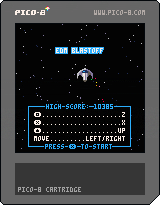
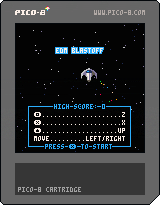
Fix cdata

Changed region(s): [[0.2812, 0.4976, 0.7188, 0.5561], [0.4688, 0.322, 0.625, 0.4098], [0.8125, 0.1756, 0.8438, 0.2049]]

diff --git a/main.js b/main.js
@@ -68,26 +68,26 @@ var _cartdat=[
 0,0,0,0,0,0,0,0,0,0,0,0,0,0,0,0,0,16,0,0,0,0,0,0,0,0,0,0,0,0,0,0,0,0,0,0,0,0,0,0,0,0,0,0,0,0,0,0,0,0,0,0,0,0,0,0,0,0,0,0,0,0,0,0,0,0,0,0,0,0,0,0,0,0,0,0,0,0,0,0,0,0,0,0,0,16,0,0,0,0,0,0,0,0,0,0,0,0,0,0,0,0,0,0,0,0,0,0,0,0,0,0,0,0,0,0,0,0,0,0,0,0,0,0,0,0,0,0,0,0,0,0,0,0,0,0,0,0,0,0,0,0,0,0,0,0,0,0,0,0,0,0,0,16,0,0,0,0,0,0,0,0,0,0,0,0,0,0,0,0,0,0,0,0,0,0,0,0,0,0,0,0,0,0,0,0,0,0,0,0,0,0,0,0,0,0,0,0,0,0,0,0,0,0,0,0,0,0,0,0,0,0,0,0,0,0,0,0,0,0,0,16,0,0,0,0,0,0,0,0,0,0,0,0,0,0,0,0,0,0,0,0,0,0,0,0,0,0,0,0,0,0,0,0,0,0,
 0,0,0,0,0,0,0,0,0,0,0,0,0,0,0,0,0,0,0,0,0,0,0,0,0,0,0,0,0,0,0,0,0,16,0,0,0,0,0,0,0,0,0,0,0,0,0,0,0,0,0,0,0,0,0,0,0,0,0,0,0,0,0,0,0,0,0,0,0,0,0,0,0,0,0,0,0,0,0,0,0,0,0,0,0,0,0,0,0,0,0,0,0,0,0,0,0,0,0,0,0,16,0,0,0,0,0,0,0,0,0,0,0,0,0,0,0,0,0,0,0,0,0,0,0,0,0,0,0,0,0,0,0,0,0,0,0,0,0,0,0,0,0,0,0,0,0,0,0,0,0,0,0,0,0,0,0,0,0,0,0,0,0,0,0,0,0,0,0,16,0,0,0,0,0,0,0,0,0,0,0,0,0,0,0,0,0,0,0,0,0,0,0,0,0,0,0,0,0,0,0,0,0,0,0,0,0,0,0,0,0,0,0,0,0,0,0,0,0,0,0,0,0,0,0,0,0,0,0,0,0,0,0,0,0,0,0,16,0,0,0,0,0,0,0,0,0,0,0,0,0,0,0,0,0,0,
 0,0,0,0,0,0,0,0,0,0,0,0,0,0,0,0,0,0,0,0,0,0,0,0,0,0,0,0,0,0,0,0,0,0,0,0,0,0,0,0,0,0,0,0,0,0,0,0,0,16,0,0,0,0,0,0,0,0,0,0,0,0,0,0,0,0,0,0,0,0,0,0,0,0,0,0,0,0,0,0,0,0,0,0,0,0,0,0,0,0,0,0,0,0,0,0,0,0,0,0,0,0,0,0,0,0,0,0,0,0,0,0,0,0,0,0,0,16,0,0,0,0,0,0,0,0,0,0,0,0,0,0,0,0,0,0,0,0,0,0,0,0,0,0,0,0,0,0,0,0,0,0,0,0,0,0,0,0,0,0,0,0,0,0,0,0,0,0,0,0,0,0,0,0,0,0,0,0,0,0,0,0,0,0,0,16,0,0,0,0,0,0,0,0,0,0,0,0,0,0,0,0,0,0,0,0,0,0,0,0,0,0,0,0,0,0,0,0,0,0,0,0,0,0,0,0,0,0,0,0,0,0,0,0,0,0,0,0,0,0,0,0,0,0,0,0,0,0,0,0,0,0,0,16,0,0,
-58,99,58,0,59,137,0,0,15,13,30,32,16,13,32,13,42,0,34,17,16,25,14,24,13,31,32,27,18,18,0,34,43,1,18,33,26,15,32,21,27,26,2,59,21,26,21,32,42,43,1,2,2,20,21,19,20,31,15,27,30,17,2,51,2,44,45,61,161,56,23,61,56,51,16,19,17,32,42,3,62,188,56,63,67,61,75,4,61,203,16,21,31,28,24,13,37,51,0,34,0,34,65,30,21,18,65,240,49,3,2,32,20,17,26,67,27,63,246,63,22,64,248,2,56,56,69,243,71,23,17,26,16,65,255,65,255,67,190,74,70,48,4,3,68,144,71,248,68,242,68,82,3,62,95,65,242,65,50,65,161,76,251,73,245,65,211,72,26,2,2,76,62,60,106,73,76,81,242,77,252,77,60,18,24,30,42,85,232,89,40,31,32,13,32,17,51,89,50,84,21,13,91,23,34,17,83,137,61,62,56,33,28,94,21,17,51,61,77,59,60,78,61,159,16,30,13,35,61,109,60,44,83,39,24,31,62,162,64,81,21,26,32,30,27,64,240,64,64,61,76,63,111,87,54,69,
-27,30,32,59,19,13,25,17,100,18,88,41,101,152,69,67,101,58,70,164,62,249,69,49,62,151,60,95,64,206,66,185,2,2,25,59,36,106,21,88,43,25,59,37,60,90,28,78,67,28,56,36,51,9,9,60,57,37,51,4,4,5,61,51,16,21,30,51,62,52,56,31,28,16,51,61,68,31,28,30,21,81,40,4,57,63,19,60,20,37,57,5,57,5,64,66,24,13,26,17,62,86,28,27,35,17,30,51,6,65,57,21,26,34,33,24,26,64,25,66,46,117,24,37,25,27,16,114,45,18,13,80,76,114,69,115,59,113,188,99,35,116,184,61,129,114,99,0,39,0,39,90,57,30,17,13,23,70,57,90,70,51,65,122,90,165,91,162,2,27,30,2,87,212,91,146,91,141,62,136,91,95,32,21,25,17,27,33,32,77,54,74,47,31,51,44,6,5,57,9,7,57,12,9,127,43,27,14,99,22,15,24,61,39,72,63,25,27,23,73,106,91,19,31,130,98,18,21,30,17,35,27,30,23,61,113,28,30,27,28,60,124,79,43,33,28,62,125,94,45,59,15,27,24,27,30,
-66,29,4,57,9,57,4,6,64,52,72,35,51,4,57,4,5,11,2,16,27,128,61,13,16,16,42,66,56,57,44,121,93,90,47,30,26,16,42,62,21,43,57,123,81,91,41,61,228,65,31,139,30,66,154,46,113,38,63,42,6,43,43,50,4,47,63,108,72,34,65,32,5,61,21,136,48,45,144,34,104,50,72,37,17,34,59,78,33,51,78,38,145,60,78,47,59,26,27,35,61,130,16,79,76,31,32,17,28,97,59,23,17,37,77,55,0,34,2,0,34,57,0,34,0,142,60,20,0,151,60,24,0,148,0,34,101,51,13,32,32,17,30,26,59,62,44,103,103,33,31,21,15,59,32,30,13,15,23,104,57,111,204,116,166,153,59,147,29,14,32,26,42,8,43,2,13,130,20,87,92,49,51,4,124,247,124,247,124,247,124,215,92,202,106,134,50,51,9,142,74,163,35,59,72,82,161,41,86,25,57,60,36,60,88,162,40,74,114,62,160,5,62,160,26,17,36,64,245,62,33,6,64,165,77,95,92,24,157,118,137,71,84,60,128,73,37,26,15,59,79,60,85,118,104,21,
-50,51,4,52,6,153,40,62,95,102,51,168,77,31,28,13,35,26,59,101,38,174,51,65,80,61,112,138,175,59,31,20,21,62,70,125,108,46,6,47,51,12,85,252,140,118,179,53,15,24,31,92,79,146,18,67,89,60,127,67,119,61,61,21,26,122,16,33,183,53,63,67,132,16,26,32,59,116,21,24,21,26,17,42,0,34,183,47,128,67,54,2,0,34,56,56,180,247,57,26,21,24,57,11,3,57,3,110,26,63,255,189,63,2,190,112,62,60,5,7,113,20,57,10,66,251,42,0,34,106,17,31,31,2,0,151,2,32,27,152,66,63,64,4,5,65,77,57,6,73,129,77,67,153,202,162,181,79,81,142,55,195,24,25,21,26,42,143,85,64,71,191,23,61,110,48,151,18,191,129,159,37,27,34,17,30,199,59,188,68,145,52,59,145,37,86,189,128,87,92,241,89,144,114,65,90,163,119,186,16,59,92,56,86,74,97,84,138,114,93,169,138,56,167,67,95,57,61,128,95,106,205,16,71,84,97,251,97,203,15,20,17,15,23,138,47,24,21,31,91,131,124,90,21,26,28,
-33,215,69,62,71,25,21,31,31,70,22,14,17,13,216,75,107,88,145,127,70,180,105,62,165,90,52,92,59,107,104,219,45,180,249,81,214,131,234,168,251,189,55,218,30,164,78,2,49,2,4,9,218,135,171,167,104,30,194,68,136,205,145,64,64,49,138,31,41,2,6,5,2,51,51,2,11,163,19,214,140,117,71,73,143,153,75,3,43,2,50,2,7,57,154,57,6,5,43,233,36,221,111,65,161,158,41,65,18,139,157,122,120,163,66,236,62,225,105,225,47,197,202,117,76,98,204,24,27,15,13,24,180,33,152,51,28,152,19,13,0,34,57,0,39,30,0,39,57,0,34,109,29,0,34,37,153,19,25,153,23,27,153,27,16,153,31,17,154,19,39,60,36,60,56,242,43,64,64,21,75,95,169,19,17,13,15,20,168,20,30,57,2,246,106,42,15,73,65,123,199,15,57,6,4,50,42,21,53,8,43,57,5,3,50,165,67,57,10,57,167,102,11,43,77,36,11,76,75,21,2,50,81,79,239,19,117,245,217,141,133,184,31,15,30,17,17,26,31,20,13,105,88,134,248,135,
-23,98,199,135,75,115,165,137,60,111,192,138,79,110,126,138,255,127,123,141,106,101,91,141,106,119,145,126,34,208,125,251,113,86,245,254,122,70,128,25,17,177,23,227,249,129,105,228,161,157,185,56,111,164,114,243,163,176,254,21,42,179,249,32,49,4,43,2,152,31,21,120,66,164,117,16,32,222,150,176,48,69,249,69,73,159,253,159,221,157,217,241,47,2,142,43,153,71,8,9,94,16,3,189,86,26,17,35,59,158,122,253,133,115,254,115,253,115,253,115,253,115,173,166,219,67,22,2,166,143,39,39,108,28,165,45,9,11,57,183,30,57,2,69,61,170,240,169,139,169,247,169,39,63,121,17,240,77,174,80,63,248,172,127,15,17,26,209,22,59,32,193,27,65,141,2,56,56,241,202,43,69,38,172,52,65,113,178,249,178,233,65,186,181,183,65,47,181,249,43,181,38,178,55,199,69,214,29,94,121,143,154,180,243,180,99,180,29,180,133,12,183,18,186,19,180,51,190,243,63,245,63,245,110,181,159,175,110,244,179,141,31,18,36,146,47,253,21,96,206,156,190,196,143,23,98,
-76,48,82,88,60,95,248,21,42,62,228,51,51,63,178,231,43,201,134,201,77,48,60,173,43,232,143,64,251,67,172,62,210,206,71,51,250,41,64,190,227,90,73,195,167,117,16,31,17,32,42,3,57,73,164,163,65,61,57,4,148,50,69,189,198,136,244,80,248,91,242,77,51,172,94,244,184,132,219,61,127,244,56,124,191,252,65,150,55,249,46,208,43,3,253,128,152,197,0,9,62,151,0,45,179,32,0,9,182,46,63,139,49,210,103,0,9,0,9,25,59,36,247,20,177,63,65,156,50,2,136,17,0,45,63,147,43,52,5,62,61,37,62,253,62,253,62,93,177,246,246,251,226,20,34,247,57,51,247,46,59,26,27,35,247,81,60,43,61,52,239,72,32,62,112,0,45,63,115,80,56,17,28,249,24,148,84,253,43,49,253,25,43,254,53,61,119,146,109,49,191,26,147,105,0,45,63,21,187,240,243,254,2,115,22,15,32,18,21,24,24,195,24,57,11,5,57,4,4,238,46,241,30,61,108,61,184,62,16,243,132,42,0,34,0,142,56,56,56,60,19,60,70,60,108,38,
-0,34,139,30,11,57,11,140,21,243,132,42,0,34,0,151,62,252,63,29,36,62,76,12,9,62,204,0,148,65,248,56,96,27,65,72,4,3,205,26,65,169,25,239,30,68,120,24,17,18,32,52,30,156,25,248,28,62,62,148,40,251,27,203,251,181,170,203,85,189,44,220,91,246,174,2,5,56,210,147,62,102,198,66,0,45,196,86,251,60,31,201,18,32,17,46,5,47,252,16,28,56,36,216,20,99,39,50,65,89,0,45,2,11,62,166,6,62,70,37,62,54,60,38,42,6,2,53,60,37,0,45,254,104,219,56,68,57,89,109,179,60,177,105,41,5,51,51,106,80,229,33,30,17,32,33,30,229,44,159,119,68,31,42,33,26,28,234,16,238,21,69,76,119,124,237,202,248,210,13,16,16,42,248,47,57,2,44,234,60,111,43,73,64,212,74,111,19,7,57,236,54,110,40,72,68,71,254,43,43,62,67,31,78,92,6,233,36,5,63,71,15,242,33,217,201,65,64,24,81,89,9,236,33,4,245,36,45,248,230,253,82,210,116,226,99,71,65,226,116,28,226,84,82,33,84,
-46,31,60,95,24,126,74,245,90,61,32,48,126,102,245,66,16,17,24,75,93,64,83,239,126,226,234,218,204,68,248,68,200,146,37,93,20,65,22,56,37,60,37,236,52,231,255,73,143,189,17,165,86,251,16,211,26,28,42,253,21,201,167,123,20,24,13,26,161,27,212,20,91,124,211,39,16,21,30,51,101,55,74,63,62,19,124,41,181,147,64,61,215,25,64,253,64,45,86,22,64,253,64,172,132,74,185,127,13,14,31,42,68,38,31,46,68,78,47,103,62,36,43,111,37,187,146,108,28,51,2,62,184,201,191,110,43,149,29,64,249,64,41,53,2,3,56,6,235,115,118,73,91,19,35,13,30,16,59,24,17,34,17,24,51,215,18,0,45,118,92,53,7,141,112,37,49,62,182,141,39,37,0,45,51,3,56,8,62,130,48,62,242,37,50,51,5,62,18,240,199,228,19,30,27,240,84,248,141,122,16,50,51,15,27,31,149,50,52,149,34,53,5,235,54,37,51,7,7,113,255,113,63,246,42,33,114,146,61,64,31,57,114,133,80,75,109,106,6,43,43,50,4,47,114,137,
-0,45,9,115,86,31,28,16,197,20,4,112,140,226,28,110,251,110,155,66,89,110,207,67,110,111,242,111,114,28,235,67,240,131,4,9,240,35,216,155,250,38,120,252,138,55,239,130,244,242,244,242,244,146,110,34,110,33,4,8,115,252,168,251,115,28,73,249,73,249,124,155,15,21,30,15,66,113,6,57,66,82,61,38,171,62,67,107,5,68,17,117,253,142,184,27,14,230,23,15,24,185,78,159,75,61,99,51,44,45,254,31,62,97,56,36,51,89,242,89,18,62,162,37,51,89,22,63,163,89,28,51,42,92,162,5,43,53,6,165,82,199,46,4,3,43,49,80,147,66,123,15,27,24,51,6,100,34,155,127,61,187,66,53,245,70,153,46,72,99,31,57,72,109,237,233,247,41,16,59,157,57,190,71,195,110,41,9,7,163,24,196,16,76,236,204,246,204,38,66,121,150,108,78,123,113,24,2,13,195,22,68,123,43,2,16,27,73,196,116,31,77,168,53,16,32,249,119,64,42,21,51,40,72,136,4,57,0,45,4,64,97,85,212,74,125,46,21,131,40,248,54,84,129,208,46,
-156,224,77,255,240,84,156,123,209,249,209,25,74,251,74,251,74,251,2,31,182,36,88,164,57,3,57,6,5,60,19,85,120,56,36,0,45,4,9,50,231,31,61,130,37,60,31,37,184,249,227,172,243,28,30,31,42,36,192,80,26,27,32,184,19,236,41,184,58,4,80,131,175,57,62,61,124,135,31,254,79,31,175,73,31,56,31,197,22,36,61,115,61,34,37,41,228,17,173,243,209,151,67,62,181,172,66,243,173,132,31,206,120,57,67,51,204,61,57,67,31,105,17,174,243,198,174,31,25,27,252,53,97,246,97,246,97,70,91,165,144,33,48,143,22,253,79,207,91,135,114,220,78,28,13,30,32,21,121,115,222,100,114,23,27,30,31,51,44,5,57,7,57,12,61,73,62,105,122,30,123,137,50,118,60,9,43,53,31,19,26,120,127,5,43,43,53,0,45,4,197,89,63,102,37,51,92,129,37,63,119,62,23,204,34,9,66,194,122,37,68,66,158,117,40,69,66,129,105,68,159,31,21,38,17,51,210,102,9,160,44,70,207,13,19,17,51,234,43,72,146,25,13,36,59,61,
-39,6,3,72,64,252,52,74,146,16,36,51,215,52,176,23,229,61,222,75,84,58,57,79,96,226,242,101,185,87,181,120,17,63,76,119,253,83,142,90,55,119,153,71,175,49,71,233,216,232,69,250,165,200,76,171,48,64,252,170,166,81,164,192,102,82,253,51,79,31,42,83,191,57,80,81,172,108,94,139,50,51,93,41,95,139,93,25,82,150,86,249,211,135,228,243,115,16,108,186,103,104,146,96,110,56,145,124,170,143,103,118,87,122,229,25,71,206,99,168,131,240,201,154,184,128,36,57,37,57,99,40,131,154,100,39,131,77,60,58,51,2,6,8,152,180,78,56,151,174,205,44,189,114,205,93,205,79,36,254,69,204,78,37,60,109,16,225,45,207,64,227,30,4,56,8,61,121,207,37,61,249,207,83,199,211,65,106,24,64,92,4,3,107,92,209,21,155,242,251,108,199,136,252,161,71,140,252,117,18,252,149,18,252,21,18,252,20,18,252,243,252,211,65,254,65,254,65,206,65,25,240,39,18,96,96,66,21,61,80,37,62,80,77,17,242,24,56,3,103,78,18,56,24,2,0,
-45,224,23,252,100,61,32,48,2,141,67,172,156,72,159,213,244,238,201,15,20,17,15,23,59,196,25,24,21,31,239,25,191,135,182,135,191,26,2,13,26,16,2,40,235,109,192,59,148,64,229,253,229,189,33,229,95,249,30,16,21,212,16,26,15,17,59,14,17,32,35,17,17,61,61,223,40,60,22,104,18,245,24,7,224,36,50,147,30,154,37,9,67,49,61,61,2,49,2,3,227,173,15,236,28,56,23,60,55,235,35,142,64,241,31,18,36,42,6,6,236,78,230,243,66,189,94,118,191,71,249,114,70,126,232,144,203,254,203,254,166,120,74,241,225,129,188,166,4,9,74,158,7,43,48,74,91,201,155,88,189,207,243,207,163,203,250,221,121,207,38,76,108,249,100,2,2,19,13,25,17,27,34,17,30,243,59,205,249,246,135,86,235,36,4,57,37,4,57,36,5,57,37,5,250,34,179,90,31,29,30,32,42,42,37,5,0,45,37,4,43,0,94,5,50,42,36,5,0,45,36,60,42,251,70,24,13,31,32,59,21,26,28,33,32,167,16,252,114,28,13,32,32,17,30,26,
-61,73,252,50,15,33,30,30,17,26,32,203,30,17,28,202,24,62,81,46,62,105,61,55,177,20,244,32,240,29,14,32,26,28,42,7,43,100,63,66,130,58,51,62,191,242,120,243,30,65,207,51,2,5,223,166,252,71,31,27,33,26,16,31,210,20,44,4,3,57,2,4,7,60,20,8,191,78,248,48,25,33,31,21,15,59,32,30,13,15,23,64,33,4,213,68,84,112,63,158,10,57,4,11,63,105,83,133,31,32,215,18,23,102,235,67,69,189,129,68,69,189,16,43,87,120,28,56,115,48,123,45,254,35,254,149,199,47,80,72,25,113,38,209,82,174,134,14,33,32,32,27,26,59,28,30,17,31,31,17,16,223,30,32,30,33,63,74,80,16,59,254,37,30,61,37,254,29,59,26,27,35,2,216,27,173,92,87,149,84,161,248,113,84,98,8,84,242,84,242,84,242,84,98,6,84,242,84,162,4,84,18,6,83,254,83,254,83,254,44,4,12,57,5,3,83,254,83,254,83,254,83,254,83,206,147,60,83,255,83,255,83,255,83,255,83,255,83,127,83,254,83,254,83,222,5,
-108,240,108,240,108,240,108,96,7,108,240,108,160,9,107,248,107,248,107,248,44,5,4,107,245,107,245,107,245,107,245,83,247,107,246,107,246,107,246,107,246,107,246,107,246,107,246,107,246,92,139,51,2,25,21,219,31,117,71,57,162,28,238,206,117,244,176,89,28,56,21,26,34,33,24,26,49,175,165,176,107,131,39,130,45,126,86,51,2,249,45,31,20,121,20,118,103,4,61,50,169,30,4,147,61,125,86,188,84,66,160,181,54,66,109,50,252,31,248,78,0,45,0,45,242,33,31,17,2,19,24,27,14,246,21,34,13,30,31,2,15,13,26,2,25,156,27,129,52,35,20,17,176,28,13,219,22,27,25,17,69,26,21,26,32,57,128,36,245,25,27,33,19,20,32,2,21,32,2,35,27,33,24,16,2,14,17,2,65,32,250,19,13,30,128,20,249,26,247,28,37,2,189,22,17,2,64,53,254,33,129,19,56,155,79,153,84,4,1,154,213,4,1,134,242,18,13,137,45,133,175,159,150,198,68,138,28,136,30,192,16,13,159,74,73,25,81,255,197,100,67,175,248,85,161,72,
-42,250,28,161,154,227,27,224,59,4,47,2,244,22,140,132,62,255,62,143,2,41,2,11,2,63,68,239,64,167,58,41,199,36,157,127,213,110,42,76,151,163,44,250,26,61,178,6,61,242,169,92,244,36,152,214,218,130,155,253,184,222,174,106,154,90,48,154,138,222,118,158,242,84,64,254,158,31,35,21,32,221,28,16,76,107,174,33,160,55,235,226,185,83,240,62,183,182,246,79,185,40,52,217,22,225,70,62,193,106,30,2,74,127,67,241,233,132,68,252,169,163,87,160,192,129,91,165,253,30,26,17,36,89,117,254,50,61,161,195,23,19,17,26,17,30,72,238,239,68,98,39,238,22,13,26,19,84,53,21,31,2,18,30,27,25,188,91,27,229,46,62,101,61,29,26,23,244,26,112,26,18,21,36,87,67,63,74,21,26,19,68,125,14,33,19,125,105,202,164,234,22,43,76,244,197,38,109,74,247,197,70,255,247,85,237,77,20,237,77,48,2,7,3,247,73,239,180,241,30,254,142,216,91,44,4,225,24,5,225,28,197,96,7,196,42,61,68,204,43,237,66,62,141,62,251,
-63,155,6,63,59,5,57,184,22,132,96,21,2,23,194,40,21,32,0,39,31,2,33,19,24,37,129,78,131,17,80,63,131,49,82,20,16,27,26,0,39,32,133,26,249,24,25,33,15,20,213,30,24,56,56,131,48,132,16,241,30,28,24,13,37,135,26,27,223,16,15,32,24,37,56,231,145,30,13,35,100,184,217,73,36,27,18,18,31,17,32,225,22,6,10,224,20,25,59,36,61,123,37,61,139,5,61,59,37,233,56,15,32,18,21,250,16,63,89,0,45,220,27,62,89,0,45,5,57,64,127,50,2,8,11,61,121,50,4,61,26,3,237,70,15,32,63,250,63,250,63,218,4,63,122,5,7,50,71,80,57,3,50,69,95,57,6,61,133,11,61,117,112,60,28,30,150,22,42,23,17,37,31,46,138,192,137,223,6,137,254,137,254,62,206,137,142,47,57,254,54,3,243,31,69,106,191,31,50,79,108,71,93,68,249,146,249,146,89,5,146,249,146,249,62,207,68,251,147,24,68,155,6,68,171,8,77,244,155,244,155,244,155,244,158,243,155,244,77,134,154,30,68,252,68,252,
-86,64,85,251,159,81,11,82,103,2,5,64,189,101,33,82,116,10,90,253,168,253,243,118,168,23,168,141,138,246,62,254,73,248,254,33,6,73,248,82,244,99,248,177,248,68,43,90,159,147,241,71,249,90,254,253,46,7,98,45,90,255,90,255,108,243,77,246,6,77,246,77,246,62,190,108,244,2,8,126,37,108,245,108,101,220,199,132,77,232,37,25,17,254,21,220,103,233,89,48,51,4,56,8,148,160,131,83,6,6,57,7,9,57,6,10,50,226,96,53,8,11,52,6,43,57,7,10,57,219,55,236,118,63,242,63,242,10,57,222,74,184,123,24,27,27,226,57,3,1,244,21,254,19,13,30,32,211,148,232,112,31,37,26,15,59,251,54,160,127,199,89,251,172,62,65,253,157,247,74,66,68,251,80,175,137,18,61,89,49,2,4,6,205,106,229,17,64,87,64,65,222,50,216,63,199,125,71,66,210,41,206,53,190,132,72,144,189,142,73,181,251,117,239,35,7,184,135,65,230,7,64,241,77,182,204,154,203,225,178,53,249,62,178,79,165,91,51,0,39,0,39,61,115,180,66,
-50,51,4,3,53,25,13,36,89,99,0,45,4,57,3,43,53,16,32,182,252,17,49,4,3,182,27,203,128,183,144,50,51,208,54,185,153,52,62,45,219,68,187,160,0,45,62,57,62,250,67,18,63,96,221,124,189,160,49,67,248,73,128,2,180,16,191,188,240,26,233,107,194,219,72,17,230,146,77,218,78,184,56,56,0,39,3,78,42,231,98,199,249,48,4,64,251,64,251,64,251,235,157,67,252,67,172,80,237,119,254,192,43,90,130,178,71,0,34,209,56,54,2,0,34,77,129,197,80,57,3,57,3,57,150,52,252,57,30,17,13,23,106,44,88,156,64,98,61,60,64,99,62,57,63,28,11,118,235,241,125,186,48,59,27,33,32,24,21,26,17,240,21,186,31,19,196,19,197,17,57,204,19,24,27,30,4,60,88,5,57,209,17,28,20,252,36,36,51,36,186,40,15,17,26,253,31,59,32,235,19,63,105,62,115,191,71,64,127,101,18,2,37,50,64,107,185,144,62,194,62,240,64,210,64,39,64,242,71,147,62,240,62,208,68,242,70,164,69,47,70,244,62,242,68,244,
-64,244,72,246,70,196,80,111,152,239,80,222,82,142,239,91,9,7,0,45,239,37,40,91,29,53,7,43,52,5,0,45,42,85,48,211,33,221,23,128,209,26,28,143,17,42,32,57,18,30,27,25,57,32,27,230,139,61,33,51,61,38,214,41,144,35,232,66,32,27,51,32,27,215,44,40,127,85,42,63,42,49,63,26,247,90,245,134,32,46,65,37,47,57,66,180,89,27,66,38,247,31,0,0,0,0,0,0,0,0,0,0,0,0,0,0,0,0,0,0,0,0,0,0,0,0,0,0,0,0,0,0,0,0,0,0,0,0,0,0,0,0,0,0,0,0,0,0,0,0,0,0,0,0,0,0,0,0,0,0,0,0,0,0,0,0,0,0,0,0,0,0,0,0,0,0,0,0,0,0,0,0,0,0,0,0,0,0,0,0,0,0,0,0,0,0,0,0,0,0,0,0,0,0,0,0,0,0,0,0,0,0,0,0,0,0,0,0,0,0,0,0,0,0,0,0,0,0,0,0,0,0,0,0,0,0,0,0,0,0,0,0,0,0,0,0,0,0,0,0,0,0,0,0,0,0,
+58,99,58,0,59,138,0,0,15,13,30,32,16,13,32,13,42,0,34,17,16,25,59,14,24,13,31,32,27,18,18,0,34,43,1,18,33,26,15,32,21,27,26,2,59,21,26,21,32,42,43,1,2,2,20,21,19,20,31,15,27,30,17,2,51,2,44,45,61,161,56,23,61,56,51,16,19,17,32,42,3,62,188,56,63,67,61,75,4,61,203,16,21,31,28,24,13,37,51,0,34,0,34,65,30,21,18,65,240,49,3,2,32,20,17,26,67,27,63,246,63,22,64,248,2,56,56,69,243,71,23,17,26,16,65,255,65,255,67,190,74,70,48,4,3,68,144,71,248,68,242,68,82,3,62,95,65,242,65,50,65,161,76,251,73,245,65,211,72,26,2,2,76,62,60,106,73,76,81,242,77,252,77,60,18,24,30,42,85,232,89,40,31,32,13,32,17,51,89,50,84,21,13,91,23,34,17,83,137,61,62,56,33,28,94,22,17,51,61,77,59,60,78,61,159,16,30,13,35,61,109,60,44,83,39,24,31,62,162,64,81,21,26,32,30,27,64,240,64,64,61,76,63,111,87,54,
+69,27,30,32,59,19,13,25,17,100,18,88,41,101,152,69,67,101,58,70,164,62,249,69,49,62,151,60,95,64,206,66,185,2,2,25,59,36,106,21,88,43,25,59,37,60,90,28,78,67,28,56,36,51,9,9,60,57,37,51,4,4,5,61,51,16,21,30,51,62,52,56,31,28,16,51,61,68,31,28,30,21,81,40,4,57,63,19,60,20,37,57,5,57,5,64,66,24,13,26,17,62,86,28,27,35,17,30,51,6,65,57,21,26,34,33,24,26,64,25,66,46,117,25,37,25,27,16,114,45,18,13,80,76,114,69,115,59,113,188,99,35,116,184,61,129,114,99,0,39,0,39,90,57,30,17,13,23,70,57,90,70,51,65,122,90,165,91,162,2,27,30,2,87,212,91,146,91,141,62,136,91,95,32,21,25,17,27,33,32,77,54,74,47,31,51,44,6,5,57,9,7,57,12,9,127,43,27,14,99,22,15,24,61,39,72,63,25,27,23,73,106,91,19,31,130,98,18,21,30,17,35,27,30,23,61,113,28,30,27,28,60,124,79,43,33,28,62,125,94,45,59,15,27,24,27,
+30,66,29,4,57,9,57,4,6,64,52,72,35,51,4,57,4,5,11,2,16,27,128,61,13,16,16,42,66,56,57,44,121,93,90,47,30,26,16,42,62,21,43,57,123,81,91,41,61,228,65,31,139,30,66,154,46,113,38,63,42,6,43,43,50,4,47,63,108,72,34,65,32,5,61,21,136,48,45,144,34,104,50,72,37,17,34,59,78,33,51,78,38,145,60,78,47,59,26,27,35,61,130,16,79,76,31,32,17,28,97,59,23,17,37,77,55,0,34,2,0,34,57,0,34,0,142,60,20,0,151,60,24,0,148,0,34,101,51,13,32,32,17,30,26,59,62,44,103,103,33,31,21,15,59,32,30,13,15,23,104,57,111,204,116,166,153,59,147,29,14,32,26,42,8,43,2,13,130,20,87,92,49,51,4,124,247,124,247,124,247,124,215,92,202,106,134,50,51,9,142,74,163,35,59,72,82,161,41,86,25,57,60,36,60,88,162,40,74,114,62,160,5,62,160,26,17,36,64,245,62,33,6,64,165,77,95,92,24,157,118,137,71,84,60,128,73,37,26,15,59,79,60,85,118,104,
+21,50,51,4,52,6,153,40,62,95,102,51,168,77,31,28,13,35,26,59,101,38,174,51,65,80,61,112,138,175,59,31,20,21,62,70,125,108,46,6,47,51,12,85,252,140,118,179,53,15,24,31,92,79,146,18,67,89,60,127,67,119,61,61,21,26,122,16,33,183,53,63,67,132,16,26,32,59,116,21,24,21,26,17,42,0,34,183,47,128,67,54,2,0,34,56,56,180,247,57,26,21,24,57,11,3,57,3,110,26,63,255,190,48,2,190,112,62,60,5,7,113,20,57,10,66,251,42,0,34,106,17,31,31,2,0,151,2,32,27,152,66,63,64,4,5,65,77,57,6,73,129,77,67,153,202,162,181,79,81,142,55,195,24,25,21,26,42,143,85,64,71,191,23,61,110,48,151,18,191,129,159,37,27,34,17,30,199,59,188,68,145,52,59,145,37,86,189,128,87,92,241,89,144,114,65,90,163,119,186,16,59,92,56,86,74,97,84,138,114,93,169,138,56,167,67,95,57,61,128,95,106,205,16,71,84,97,251,97,203,15,20,17,15,23,138,47,24,21,31,91,131,124,90,21,26,
+28,33,215,69,62,71,25,21,31,31,70,22,14,17,13,216,75,107,88,145,127,70,180,105,62,165,90,52,92,59,107,104,219,45,180,249,81,214,131,234,168,251,189,55,218,30,164,78,2,49,2,4,9,218,135,171,167,104,30,194,68,136,205,145,64,64,49,138,31,41,2,6,5,2,51,51,2,11,163,19,214,140,117,71,73,143,153,75,3,43,2,50,2,7,57,154,57,6,5,43,233,36,221,111,65,161,158,41,65,18,139,157,122,120,163,66,236,62,225,105,225,47,197,202,117,76,98,204,24,27,15,13,24,180,33,152,51,28,152,19,13,0,34,57,0,39,30,0,39,57,0,34,109,29,0,34,37,153,19,25,153,23,27,153,27,16,153,31,17,154,19,39,60,36,60,56,242,43,64,64,21,75,95,169,19,17,13,15,20,168,20,30,57,2,246,106,42,15,73,65,123,199,15,57,6,4,50,42,21,53,8,43,57,5,3,50,165,67,57,10,57,167,102,11,43,77,36,11,76,75,21,2,50,81,79,239,19,117,245,217,141,133,184,31,15,30,17,17,26,31,20,13,105,88,134,248,
+135,23,98,199,135,75,115,165,137,60,111,192,138,79,110,126,138,255,127,123,141,106,101,91,141,106,119,145,126,34,208,125,251,113,86,245,254,122,70,128,25,17,177,23,227,249,129,105,228,161,157,185,56,111,164,114,243,163,176,254,21,42,179,249,32,49,4,43,2,152,31,21,120,66,164,117,16,32,222,150,176,48,69,249,69,73,159,253,159,221,157,217,241,47,2,142,43,153,71,8,9,94,16,3,189,86,26,17,35,59,158,122,253,133,115,254,115,253,115,253,115,253,115,173,166,219,67,22,2,166,143,39,39,108,28,165,45,9,11,57,183,30,57,2,69,61,170,240,169,139,169,247,169,39,63,121,17,240,77,174,80,63,248,172,127,15,17,26,209,22,59,32,193,27,65,141,2,56,56,241,202,43,69,38,172,52,65,113,178,249,178,233,65,186,181,183,65,47,181,249,43,181,38,178,55,199,69,214,29,94,121,143,154,180,243,180,99,180,29,180,133,12,183,18,186,19,180,51,190,243,63,245,63,245,110,181,159,175,110,244,179,141,31,18,36,146,47,253,21,96,206,156,190,196,143,23,
+98,76,48,82,88,60,95,248,21,42,62,228,51,51,63,178,231,43,201,134,201,77,48,60,173,43,232,143,64,251,67,172,62,210,206,71,51,250,41,64,190,227,90,73,195,167,117,16,31,17,32,42,3,57,73,164,163,65,61,57,4,148,50,69,189,198,136,244,80,248,91,242,77,51,172,94,244,184,132,219,61,127,244,56,124,191,252,65,150,55,249,46,208,43,3,253,128,152,197,0,9,62,151,0,45,179,32,0,9,182,46,63,139,49,210,103,0,9,0,9,25,59,36,247,20,177,63,65,156,50,2,136,17,0,45,63,147,43,52,5,62,61,37,62,253,62,253,62,93,177,246,246,251,226,20,34,247,57,51,247,46,59,26,27,35,247,81,60,43,61,52,239,72,32,62,112,0,45,63,115,80,56,17,28,249,24,148,84,253,43,49,253,25,43,254,53,61,119,146,109,49,191,26,147,105,0,45,63,21,187,240,243,254,2,115,22,15,32,18,21,24,24,195,24,57,11,5,57,4,4,238,46,241,30,61,108,61,184,62,16,243,132,42,0,34,0,142,56,56,56,60,19,60,70,60,108,
+38,0,34,139,30,11,57,11,140,21,243,132,42,0,34,0,151,62,252,63,29,36,62,76,12,9,62,204,0,148,65,248,56,96,27,65,72,4,3,205,26,65,169,25,239,30,68,120,24,17,18,32,52,30,156,25,248,28,62,62,148,40,251,27,203,251,181,170,203,85,189,44,220,91,246,174,2,5,56,210,147,62,102,198,66,0,45,196,86,251,60,31,201,18,32,17,46,5,47,252,16,28,56,36,216,20,99,39,50,65,89,0,45,2,11,62,166,6,62,70,37,62,54,60,38,42,6,2,53,60,37,0,45,254,104,219,56,68,57,89,109,179,60,177,105,41,5,51,51,106,80,229,33,30,17,32,33,30,229,44,159,119,68,31,42,33,26,28,234,16,238,21,69,76,119,124,237,202,248,210,13,16,16,42,248,47,57,2,44,234,60,111,43,73,64,212,74,111,19,7,57,236,54,110,40,72,68,71,254,43,43,62,67,31,78,92,6,233,36,5,63,71,15,242,33,217,201,65,64,24,81,89,9,236,33,4,245,36,45,248,230,253,82,210,116,226,99,71,65,226,116,28,226,84,82,33,
+84,46,31,60,95,24,126,74,245,90,61,32,48,126,102,245,66,16,17,24,75,93,64,83,239,126,226,234,218,204,68,248,68,200,146,37,93,20,65,22,56,37,60,37,236,52,231,255,73,143,189,17,165,86,251,16,211,26,28,42,253,21,201,167,123,20,24,13,26,161,27,212,20,91,124,211,39,16,21,30,51,101,55,74,63,62,19,124,41,181,147,64,61,215,25,64,253,64,45,86,22,64,253,64,172,132,74,185,127,13,14,31,42,68,38,31,46,68,78,47,103,62,36,43,111,37,187,146,108,28,51,2,62,184,201,191,110,43,149,29,64,249,64,41,53,2,3,56,6,235,115,118,73,91,19,35,13,30,16,59,24,17,34,17,24,51,215,18,0,45,118,92,53,7,141,112,37,49,62,182,141,39,37,0,45,51,3,56,8,62,130,48,62,242,37,50,51,5,62,18,240,199,228,19,30,27,240,84,248,141,122,16,50,51,15,27,31,149,50,52,149,34,53,5,235,54,37,51,7,7,113,255,113,63,246,42,33,114,146,61,64,31,57,114,133,80,75,109,106,6,43,43,50,4,47,114,
+137,0,45,9,115,86,31,28,16,197,20,4,112,140,226,28,110,251,110,155,66,89,110,207,67,110,111,242,111,114,28,235,67,240,131,4,9,240,35,216,155,250,38,120,252,138,55,239,130,244,242,244,242,244,146,110,34,110,33,4,8,115,252,168,251,115,28,73,249,73,249,124,155,15,21,30,15,66,113,6,57,66,82,61,38,171,62,67,107,5,68,17,117,253,142,184,27,14,230,23,15,24,185,78,159,75,61,99,51,44,45,254,31,62,97,56,36,51,89,242,89,18,62,162,37,51,89,22,63,163,89,28,51,42,92,162,5,43,53,6,165,82,199,46,4,3,43,49,80,147,66,123,15,27,24,51,6,100,34,155,127,61,187,66,53,245,70,153,46,72,99,31,57,72,109,237,233,247,41,16,59,157,57,190,71,195,110,41,9,7,163,24,196,16,76,236,204,246,204,38,66,121,150,108,78,123,113,24,2,13,195,22,68,123,43,2,16,27,73,196,116,31,77,168,53,16,32,249,119,64,42,21,51,40,72,136,4,57,0,45,4,64,97,85,212,74,125,46,21,131,40,248,54,84,129,208,
+46,156,224,77,255,240,84,156,123,209,249,209,25,74,251,74,251,74,251,2,31,182,36,88,164,57,3,57,6,5,60,19,85,120,56,36,0,45,4,9,50,231,31,61,130,37,60,31,37,184,249,227,172,243,28,30,31,42,36,192,80,26,27,32,184,19,236,41,184,58,4,80,131,175,57,62,61,124,135,31,254,79,31,175,73,31,56,31,197,22,36,61,115,61,34,37,41,228,17,173,243,209,151,67,62,181,172,66,243,173,132,31,206,120,57,67,51,204,61,57,67,31,105,17,174,243,198,174,31,25,27,252,53,97,246,97,246,97,70,91,165,144,33,48,143,22,253,79,207,91,135,114,220,78,28,13,30,32,21,121,115,222,100,114,23,27,30,31,51,44,5,57,7,57,12,61,73,62,105,122,30,123,137,50,118,60,9,43,53,31,19,26,120,127,5,43,43,53,0,45,4,197,89,63,102,37,51,92,129,37,63,119,62,23,204,34,9,66,194,122,37,68,66,158,117,40,69,66,129,105,68,159,31,21,38,17,51,210,102,9,160,44,70,207,13,19,17,51,234,43,72,146,25,13,36,59,
+61,39,6,3,72,64,252,52,74,146,16,36,51,215,52,176,23,229,61,222,75,84,58,57,79,96,226,242,101,185,87,181,120,17,63,76,119,253,83,142,90,55,119,153,71,175,49,71,233,216,232,69,250,165,200,76,171,48,64,252,170,166,81,164,192,102,82,253,51,79,31,42,83,191,57,80,81,172,108,94,139,50,51,93,41,95,139,93,25,82,150,86,249,211,135,228,243,115,16,108,186,103,104,146,96,110,56,145,124,170,143,103,118,87,122,229,25,71,206,99,168,131,240,201,154,184,128,36,57,37,57,99,40,131,154,100,39,131,77,60,58,51,2,6,8,152,180,78,56,151,174,205,44,189,114,205,93,205,79,36,254,69,204,78,37,60,109,16,225,45,207,64,227,30,4,56,8,61,121,207,37,61,249,207,83,199,211,65,106,24,64,92,4,3,107,92,209,21,155,242,251,108,199,136,252,161,71,140,252,117,18,252,149,18,252,21,18,252,20,18,252,243,252,211,65,254,65,254,65,206,65,25,240,39,18,96,96,66,21,61,80,37,62,80,77,17,242,24,56,3,103,78,18,56,24,2,
+0,45,224,23,252,100,61,32,48,2,141,67,172,156,72,159,213,244,238,201,15,20,17,15,23,59,196,25,24,21,31,239,25,191,135,182,135,191,26,2,13,26,16,2,40,235,109,192,59,148,64,229,253,229,189,33,229,95,249,30,16,21,212,16,26,15,17,59,14,17,32,35,17,17,61,61,223,40,60,22,104,18,245,24,7,224,36,50,147,30,154,37,9,67,49,61,61,2,49,2,3,227,173,15,236,28,56,23,60,55,235,35,142,64,241,31,18,36,42,6,6,236,78,230,243,66,189,94,118,191,71,249,114,70,126,232,144,203,254,203,254,166,120,74,241,225,129,188,166,4,9,74,158,7,43,48,74,91,201,155,88,189,207,243,207,163,203,250,221,121,207,38,76,108,249,100,2,2,19,13,25,17,27,34,17,30,243,59,205,249,246,135,86,235,36,4,57,37,4,57,36,5,57,37,5,250,34,179,90,31,29,30,32,42,42,37,5,0,45,37,4,43,0,94,5,50,42,36,5,0,45,36,60,42,251,70,24,13,31,32,59,21,26,28,33,32,167,16,252,114,28,13,32,32,17,30,
+26,61,73,252,50,15,33,30,30,17,26,32,203,30,17,28,202,24,62,81,46,62,105,61,55,177,20,244,32,240,29,14,32,26,28,42,7,43,100,63,66,130,58,51,62,191,242,120,243,30,65,207,51,2,5,223,166,252,71,31,27,33,26,16,31,210,20,44,4,3,57,2,4,7,60,20,8,191,78,248,48,25,33,31,21,15,59,32,30,13,15,23,64,33,4,213,68,84,112,63,158,10,57,4,11,63,105,83,133,31,32,215,18,23,102,235,67,69,189,129,68,69,189,16,43,87,120,28,56,115,48,123,45,254,35,254,149,199,47,80,72,25,113,38,209,82,174,134,14,33,32,32,27,26,59,28,30,17,31,31,17,16,223,30,32,30,33,63,74,80,16,59,254,37,30,61,37,254,29,59,26,27,35,2,216,27,173,92,87,149,84,161,248,113,84,98,8,84,242,84,242,84,242,84,98,6,84,242,84,162,4,84,18,6,83,254,83,254,83,254,44,4,12,57,5,3,83,254,83,254,83,254,83,254,83,206,147,60,83,255,83,255,83,255,83,255,83,255,83,127,83,254,83,254,83,222,
+5,108,240,108,240,108,240,108,96,7,108,240,108,160,9,107,248,107,248,107,248,44,5,4,107,245,107,245,107,245,107,245,83,247,107,246,107,246,107,246,107,246,107,246,107,246,107,246,107,246,92,139,51,2,25,21,219,31,117,71,57,162,28,238,206,117,244,176,89,28,56,21,26,34,33,24,26,49,175,165,176,107,131,39,130,45,126,86,51,2,249,45,31,20,121,20,118,103,4,61,50,169,30,4,147,61,125,86,188,84,66,160,181,54,66,109,50,252,31,248,78,0,45,0,45,242,33,31,17,2,19,24,27,14,246,21,34,13,30,31,2,15,13,26,2,25,156,27,129,52,35,20,17,176,28,13,219,22,27,25,17,69,26,21,26,32,57,128,36,245,25,27,33,19,20,32,2,21,32,2,35,27,33,24,16,2,14,17,2,65,32,250,19,13,30,128,20,249,26,247,28,37,2,189,22,17,2,64,53,254,33,129,19,56,155,79,153,84,4,1,154,213,4,1,134,242,18,13,137,45,133,175,159,150,198,68,138,28,136,30,192,16,13,159,74,73,25,81,255,197,100,67,175,248,85,161,
+72,42,250,28,161,154,227,27,224,59,4,47,2,244,22,140,132,62,255,62,143,2,41,2,11,2,63,68,239,64,167,58,41,199,36,157,127,213,110,42,76,151,163,44,250,26,61,178,6,61,242,169,92,244,36,152,214,218,130,155,253,184,222,174,106,154,90,48,154,138,222,118,158,242,84,64,254,158,31,35,21,32,221,28,16,76,107,174,33,160,55,235,226,185,83,240,62,183,182,246,79,185,40,52,217,22,225,70,62,193,106,30,2,74,127,67,241,233,132,68,252,169,163,87,160,192,129,91,165,253,30,26,17,36,89,117,254,50,61,161,195,23,19,17,26,17,30,72,238,239,68,98,39,238,22,13,26,19,84,53,21,31,2,18,30,27,25,188,91,27,229,46,62,101,61,29,26,23,244,26,112,26,18,21,36,87,67,63,74,21,26,19,68,125,14,33,19,125,105,202,164,234,22,43,76,244,197,38,109,74,247,197,70,255,247,85,237,77,20,237,77,48,2,7,3,247,73,239,180,241,30,254,142,216,91,44,4,225,24,5,225,28,197,96,7,196,42,61,68,204,43,237,66,62,141,62,
+251,63,155,6,63,59,5,57,184,22,132,96,21,2,23,194,40,21,32,0,39,31,2,33,19,24,37,129,78,131,17,80,63,131,49,82,20,16,27,26,0,39,32,133,26,249,24,25,33,15,20,213,30,24,56,56,131,48,132,16,241,30,28,24,13,37,135,26,27,223,16,15,32,24,37,56,231,145,30,13,35,100,184,217,73,36,27,18,18,31,17,32,225,22,6,10,224,20,25,59,36,61,123,37,61,139,5,61,59,37,233,56,15,32,18,21,250,16,63,89,0,45,220,27,62,89,0,45,5,57,64,127,50,2,8,11,61,121,50,4,61,26,3,237,70,15,32,63,250,63,250,63,218,4,63,122,5,7,50,71,80,57,3,50,69,95,57,6,61,133,11,61,117,112,60,28,30,150,22,42,23,17,37,31,46,138,192,137,223,6,137,254,137,254,62,206,137,142,47,57,254,54,3,243,31,69,106,191,31,50,79,108,71,93,68,249,146,249,146,89,5,146,249,146,249,62,207,68,251,147,24,68,155,6,68,171,8,77,244,155,244,155,244,155,244,158,243,155,244,77,134,154,30,68,252,68,
+252,86,64,85,251,159,81,11,82,103,2,5,64,189,101,33,82,116,10,90,253,168,253,243,118,168,23,168,141,138,246,62,254,73,248,254,33,6,73,248,82,244,99,248,177,248,68,43,90,159,147,241,71,249,90,254,253,46,7,98,45,90,255,90,255,108,243,77,246,6,77,246,77,246,62,190,108,244,2,8,126,37,108,245,108,101,220,199,132,77,232,37,25,17,254,21,220,103,233,89,48,51,4,56,8,148,160,131,83,6,6,57,7,9,57,6,10,50,226,96,53,8,11,52,6,43,57,7,10,57,219,55,236,118,63,242,63,242,10,57,222,74,184,123,24,27,27,226,57,3,1,244,21,254,19,13,30,32,211,148,232,112,31,37,26,15,59,251,54,160,127,199,89,251,172,62,65,253,157,247,74,66,68,251,80,175,137,18,61,89,49,2,4,6,205,106,229,17,64,87,64,65,222,50,216,63,199,125,71,66,210,41,206,53,190,132,72,144,189,142,73,181,251,117,239,35,7,184,135,65,230,7,64,241,77,182,204,154,203,225,178,53,249,62,178,79,165,91,51,0,39,0,39,61,115,180,
+66,50,51,4,3,53,25,13,36,89,99,0,45,4,57,3,43,53,16,32,182,252,17,49,4,3,182,27,203,128,183,144,50,51,208,54,185,153,52,62,45,219,68,187,160,0,45,62,57,62,250,67,18,63,96,221,124,189,160,49,67,248,73,128,2,180,16,191,188,240,26,233,107,194,219,72,17,230,146,77,218,78,184,56,56,0,39,3,78,42,231,98,199,249,48,4,64,251,64,251,64,251,235,157,67,252,67,172,80,237,119,254,192,43,90,130,178,71,0,34,209,56,54,2,0,34,77,129,197,80,57,3,57,3,57,150,52,252,57,30,17,13,23,106,44,88,156,64,98,61,60,64,99,62,57,63,28,11,118,235,241,125,186,48,59,27,33,32,24,21,26,17,240,21,186,31,19,196,19,197,17,57,204,19,24,27,30,4,60,88,5,57,209,17,28,20,252,36,36,51,36,186,40,15,17,26,253,31,59,32,235,19,63,105,62,115,191,71,64,127,101,18,2,37,50,64,107,185,144,62,194,62,240,64,210,64,39,64,242,71,147,62,240,62,208,68,242,70,164,69,47,70,244,62,242,68,
+244,64,244,72,246,70,196,80,111,152,239,80,222,82,142,239,91,9,7,0,45,239,37,40,91,29,53,7,43,52,5,0,45,42,85,48,211,33,221,23,128,209,26,28,143,17,42,32,57,18,30,27,25,57,32,27,230,139,61,33,51,61,38,214,41,144,35,232,66,32,27,51,32,27,215,44,40,127,85,42,63,42,49,63,26,247,90,245,134,32,46,65,37,47,57,66,180,89,27,66,38,247,31,0,0,0,0,0,0,0,0,0,0,0,0,0,0,0,0,0,0,0,0,0,0,0,0,0,0,0,0,0,0,0,0,0,0,0,0,0,0,0,0,0,0,0,0,0,0,0,0,0,0,0,0,0,0,0,0,0,0,0,0,0,0,0,0,0,0,0,0,0,0,0,0,0,0,0,0,0,0,0,0,0,0,0,0,0,0,0,0,0,0,0,0,0,0,0,0,0,0,0,0,0,0,0,0,0,0,0,0,0,0,0,0,0,0,0,0,0,0,0,0,0,0,0,0,0,0,0,0,0,0,0,0,0,0,0,0,0,0,0,0,0,0,0,0,0,0,0,0,0,0,0,0,0,
 0,0,0,0,0,0,0,0,0,0,0,0,0,0,0,0,0,0,0,0,0,0,0,0,0,0,0,0,0,0,0,0,0,0,0,0,0,0,0,0,0,0,0,0,0,0,0,0,0,0,0,0,0,0,0,0,0,0,0,0,0,0,0,0,0,0,0,0,0,0,0,0,0,0,0,0,0,0,0,0,0,0,0,0,0,0,0,0,0,0,0,0,0,0,0,0,0,0,0,0,0,0,0,0,0,0,0,0,0,0,0,0,0,0,0,0,0,0,0,0,0,0,0,0,0,0,0,0,0,0,0,0,0,0,0,0,0,0,0,0,0,0,0,0,0,0,0,0,0,0,0,0,0,0,0,0,0,0,0,0,0,0,0,0,0,0,0,0,0,0,0,0,0,0,0,0,0,0,0,0,0,0,0,0,0,0,0,0,0,0,0,0,0,0,0,0,0,0,0,0,0,0,0,0,0,0,0,0,0,0,0,0,0,0,0,0,0,0,0,0,0,0,0,0,0,0,0,0,0,0,0,0,0,0,0,0,0,0,0,0,0,0,0,0,0,0,0,0,0,0,0,0,0,0,0,0,
 0,0,0,0,0,0,0,0,0,0,0,0,0,0,0,0,0,0,0,0,0,0,0,0,0,0,0,0,0,0,0,0,0,0,0,0,0,0,0,0,0,0,0,0,0,0,0,0,0,0,0,0,0,0,0,0,0,0,0,0,0,0,0,0,0,0,0,0,0,0,0,0,0,0,0,0,0,0,0,0,0,0,0,0,0,0,0,0,0,0,0,0,0,0,0,0,0,0,0,0,0,0,0,0,0,0,0,0,0,0,0,0,0,0,0,0,0,0,0,0,0,0,0,0,0,0,0,0,0,0,0,0,0,0,0,0,0,0,0,0,0,0,0,0,0,0,0,0,0,0,0,0,0,0,0,0,0,0,0,0,0,0,0,0,0,0,0,0,0,0,0,0,0,0,0,0,0,0,0,0,0,0,0,0,0,0,0,0,0,0,0,0,0,0,0,0,0,0,0,0,0,0,0,0,0,0,0,0,0,0,0,0,0,0,0,0,0,0,0,0,0,0,0,0,0,0,0,0,0,0,0,0,0,0,0,0,0,0,0,0,0,0,0,0,0,0,0,0,0,0,0,0,0,0,0,0,
 0,0,0,0,0,0,0,0,0,0,0,0,0,0,0,0,0,0,0,0,0,0,0,0,0,0,0,0,0,0,0,0,0,0,0,0,0,0,0,0,0,0,0,0,0,0,0,0,0,0,0,0,0,0,0,0,0,0,0,0,0,0,0,0,0,0,0,0,0,0,0,0,0,0,0,0,0,0,0,0,0,0,0,0,0,0,0,0,0,0,0,0,0,0,0,0,0,0,0,0,0,0,0,0,0,0,0,0,0,0,0,0,0,0,0,0,0,0,0,0,0,0,0,0,0,0,0,0,0,0,0,0,0,0,0,0,0,0,0,0,0,0,0,0,0,0,0,0,0,0,0,0,0,0,0,0,0,0,0,0,0,0,0,0,0,0,0,0,0,0,0,0,0,0,0,0,0,0,0,0,0,0,0,0,0,0,0,0,0,0,0,0,0,0,0,0,0,0,0,0,0,0,0,0,0,0,0,0,0,0,0,0,0,0,0,0,0,0,0,0,0,0,0,0,0,0,0,0,0,0,0,0,0,0,0,0,0,0,0,0,0,0,0,0,0,0,0,0,0,0,0,0,0,0,0,0,
